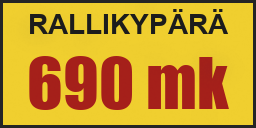
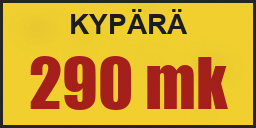
Epicerie : casques du jeu en vente (JD 23/10 : « les casques du jeu qui spawn dans la chambre ») -- copies du casque du jeu (Wear, comme les paires par joueur : portables, vues par les autres, protection du jeu), creees chez l'hote ou en solo (@vetostoa / @vetosto), gardees dans MWCoop-kyparat.txt ;

diff --git a/src/MWCoop/Sync/Wear.cs b/src/MWCoop/Sync/Wear.cs
@@ -49,6 +49,7 @@ namespace MWCoop
             public int OffWho = -1; public Vector3 OffPos; public Quaternion OffRot; public float OffAt = -1;  // pose ou un autre l'a enleve
             public int LastWearer = -1;                                           // dernier porteur vu
             public float YieldAt = -100, HeldLog = -100, SentAt;
+            public Vector3 FreePos, FreeEul;                                      // (casque achete : derniere pose libre, sauvegardee)
         }
 
         // 0 veste, 1 combinaison, 2 casque, 3 tasse, puis par joueur k >= 2 : veste k, combinaison k, casque k, tasse k.
@@ -76,6 +77,7 @@ namespace MWCoop
             Reset();
             clothLogic = helmetLogic = null;
             helmetHooked.Clear(); cupSeen.Clear(); cupResend = 0f;
+            osto.Clear(); ostoFile.Clear(); ostoRead = false;
             player = null;
             found = fileRead = false;
             filePoses.Clear();
@@ -134,7 +136,7 @@ namespace MWCoop
         static readonly HashSet<GameObject> helmetHooked = new HashSet<GameObject>();
         static void HookHelmets()
         {
-            foreach (Item it in items)
+            foreach (Item it in AllItems())
             {
                 if (it.Kind != 2 || it.Go == null || helmetHooked.Contains(it.Go)) continue;
                 PlayMakerFSM use = Game.FsmOn(it.Go, "Use");
@@ -180,7 +182,7 @@ namespace MWCoop
 
         public static string KeyOf(GameObject go)
         {
-            foreach (Item it in items) if (it.Go != null && it.Go == go) return it.Key;
+            foreach (Item it in AllItems()) if (it.Go != null && it.Go == go) return it.Key;
             return null;
         }
 
@@ -193,7 +195,7 @@ namespace MWCoop
             get
             {
                 int f = 0;
-                foreach (Item it in items) if (it.LocalWorn) f |= Bits[it.Kind];
+                foreach (Item it in AllItems()) if (it.LocalWorn) f |= Bits[it.Kind];
                 return f;
             }
         }
@@ -235,8 +237,16 @@ namespace MWCoop
                 return none;
             }
             if (src == null) return null;
+            var it = NewCopy(kind, k, src, CopyNames[kind] + " " + k + "(itemx)", Kinds[kind] + " " + k, "w:vetement:" + Kinds[kind] + k, pos, rot);
+            items.Add(it);
+            return it;
+        }
+
+        // copie d'un vetement du jeu (« (itemx) » dans le nom : la main du jeu le prend comme un objet), pas encore listee
+        static Item NewCopy(int kind, int k, GameObject src, string goName, string name, string key, Vector3 pos, Quaternion rot)
+        {
             var go = (GameObject)Object.Instantiate(src, pos, rot);
-            go.name = CopyNames[kind] + " " + k + "(itemx)";   // (« (itemx) » : la main du jeu le prend comme un objet)
+            go.name = goName;
             go.transform.parent = null;
             go.transform.position = pos; go.transform.rotation = rot;
             go.transform.localScale = Vector3.one;   // (comme le chargement du jeu : SetScale 1)
@@ -270,10 +280,114 @@ namespace MWCoop
                 FsmInt st = use.FsmVariables.FindFsmInt("State"); if (st != null) st.Value = 0;
                 FsmBool ld = use.FsmVariables.FindFsmBool("Loaded"); if (ld != null) ld.Value = true;
             }
-            var it = new Item { Go = go, Kind = kind, Name = Kinds[kind] + " " + k, Key = "w:vetement:" + Kinds[kind] + k };
-            items.Add(it);
+            var nit = new Item { Go = go, Kind = kind, Name = name, Key = key, FreePos = pos, FreeEul = rot.eulerAngles };
             Props.SoonScan();
+            return nit;
+        }
+
+        // ---------------------------------------------------------------- casques achetes (epicerie, JD 23/10)
+        // Copies du casque du jeu vendues a l'Osuuskauppa, en plus des paires (une par joueur) : creees chez l'hote (ou en
+        // solo), liste et poses envoyees a tous (@vetosto, redite avec celle des paires), gardees a cote de la sauvegarde de
+        // l'hote (MWCoop-kyparat.txt). Messages de port : numero 128 + j (hors des paires, dont l'ordre peut differer).
+        const int OstoBase = 128;
+        static readonly List<Item> osto = new List<Item>();
+        static readonly List<Vector3[]> ostoFile = new List<Vector3[]>();
+        static bool ostoRead;
+        static bool Authority { get { return !Session.Active || Session.IsHost; } }
+        static string OstoPath { get { return WorldFiles.PathOf("MWCoop-kyparat.txt"); } }
+
+        static IEnumerable<Item> AllItems()
+        {
+            foreach (Item it in items) yield return it;
+            foreach (Item it in osto) yield return it;
+        }
+
+        public static void BuyHelmet(Vector3 pos, Quaternion rot)
+        {
+            if (Authority) { AddOsto(pos, rot, true, Session.Active ? Session.LocalId : 0); return; }
+            Session.SendAll(new NetWriter(Msg.Job).U8(Session.LocalId).Str("@vetostoa").Vec(pos).Quat(rot), true);
+            Log.Info("vetements : casque achete, demande envoyee a l'hote");
+        }
+
+        public static void OnBuyRequest(int who, Vector3 pos, Quaternion rot) { if (Session.IsHost) AddOsto(pos, rot, true, who); }
+
+        // essai (boutique, action « kyparapaalle ») : le dernier casque achete mis par son automate Use, comme un clic
+        public static string TestOsto()
+        {
+            if (osto.Count == 0) return "aucun casque achete";
+            Item it = osto[osto.Count - 1];
+            PlayMakerFSM use = it.Go != null ? Game.FsmOn(it.Go, "Use") : null;
+            if (use == null) return it.Name + " : pas d'automate Use";
+            Game.SetState(use, "State 1");
+            return it.Name + " : mis par son automate (" + use.ActiveStateName + ")";
+        }
+        public static string OstoState() { return osto.Count + " casque(s) achete(s)" + (osto.Count > 0 ? ", dernier : " + State2(osto[osto.Count - 1]) : ""); }
+        static string State2(Item it) { return it.Name + (it.Go == null ? " absent" : (it.Go.activeSelf ? " visible en " + it.Go.transform.position.ToString("F2") : " inactif") + ", porte ici " + it.LocalWorn + ", PlayerHelmet " + Game.GlobalBool("PlayerHelmet")); }
+
+        static Item AddOsto(Vector3 pos, Quaternion rot, bool bought, int who)
+        {
+            GameObject src = items[2].Go;
+            if (src == null) { Log.Info("vetements : casque du jeu introuvable, casque achete pas cree"); return null; }
+            int j = osto.Count + 1;
+            Item it = NewCopy(2, j, src, "helmet osto " + j + "(itemx)", "casque achete " + j, "w:vetement:casqueosto" + j, pos, rot);
+            osto.Add(it);
+            HookHelmets();
+            if (bought)
+            {
+                Log.Info("vetements : casque achete " + j + " par #" + who + ", pose en " + pos.ToString("F1"));
+                SaveOsto(); SendOsto();
+            }
             return it;
+        }
+
+        static void LoadOsto()
+        {
+            ostoRead = true;
+            var ci = System.Globalization.CultureInfo.InvariantCulture;
+            try
+            {
+                if (File.Exists(OstoPath))
+                    foreach (string l in File.ReadAllLines(OstoPath))
+                    {
+                        string[] c = l.Split(';');
+                        if (c.Length < 6) continue;
+                        Vector3 p = new Vector3(float.Parse(c[0], ci), float.Parse(c[1], ci), float.Parse(c[2], ci)), e = new Vector3(float.Parse(c[3], ci), float.Parse(c[4], ci), float.Parse(c[5], ci));
+                        AddOsto(p, Quaternion.Euler(e), false, 0);
+                    }
+            }
+            catch (System.Exception ex) { Log.Warn("vetements : lecture des casques achetes " + ex.Message); }
+            if (osto.Count > 0) Log.Info("vetements : " + osto.Count + " casque(s) achete(s) repris de la sauvegarde");
+        }
+
+        static void SaveOsto()
+        {
+            if (!Authority || !ostoRead) return;
+            var ci = System.Globalization.CultureInfo.InvariantCulture;
+            var sb = new System.Text.StringBuilder();
+            foreach (Item it in osto)
+            {
+                foreach (float f in new[] { it.FreePos.x, it.FreePos.y, it.FreePos.z, it.FreeEul.x, it.FreeEul.y, it.FreeEul.z }) sb.Append(f.ToString("R", ci)).Append(';');
+                sb.Length--; sb.Append('\n');
+            }
+            try { File.WriteAllText(OstoPath, sb.ToString()); } catch (System.Exception ex) { Log.Warn("vetements : ecriture des casques achetes " + ex.Message); }
+        }
+
+        static void SendOsto()
+        {
+            if (!Session.Active || !Session.IsHost || osto.Count == 0 || Session.RemoteCount == 0) return;
+            var w = new NetWriter(Msg.Job).U8(Session.LocalId).Str("@vetosto").U8(osto.Count);
+            foreach (Item it in osto) w.Vec(it.FreePos).Vec(it.FreeEul);
+            Session.SendAll(w, true);
+        }
+
+        // Invite : liste de l'hote -- les casques achetes qui manquent ici, a la pose de l'hote.
+        public static void OnOstoList(NetReader r)
+        {
+            int n = r.U8();
+            var ps = new List<Vector3[]>();
+            for (int j = 0; j < n; j++) ps.Add(new[] { r.Vec(), r.Vec() });
+            if (Session.IsHost || items[2].Go == null) return;
+            for (int j = osto.Count; j < n; j++) AddOsto(ps[j][0], Quaternion.Euler(ps[j][1]), false, 0);
         }
 
         // Paires jusqu'a n (poses : veste, rotation, combinaison, rotation par paire k >= 2, sinon point de la maison).
@@ -331,7 +445,7 @@ namespace MWCoop
         }
 
         // A la sauvegarde du jeu (SaveHook), comme les autres objets des ajouts : poses des tenues de plus.
-        public static void OnGameSave() { if (Session.Active && fileRead) SaveFile(); }
+        public static void OnGameSave() { if (Session.Active && fileRead) SaveFile(); SaveOsto(); }
 
         static void SaveFile()
         {
@@ -471,29 +585,38 @@ namespace MWCoop
                 if (want > pairs && EnsurePairs(want, filePoses, filePoses.Count + 1 >= want ? "reprises de la sauvegarde" : "une par joueur")) { SaveFile(); nextList = 0f; }
                 if (now >= nextList) { nextList = now + 10f; SendList(); }
             }
+            if (Authority && !ostoRead && items[2].Go != null && now - loadedAt > 12f) { LoadOsto(); SendOsto(); }
+            if (Session.Active && Session.IsHost && ostoRead && now >= nextOsto) { nextOsto = now + 10f; SendOsto(); }
             if (swapKind >= 0 && now >= swapAt) Swap(now);
-            for (int i = 0; i < items.Count; i++)
+            for (int i = 0; i < items.Count; i++) Tick(items[i], i, now);
+            for (int j = 0; j < osto.Count; j++) Tick(osto[j], OstoBase + j, now);
+        }
+        static float nextOsto;
+
+        static void Tick(Item it, int i, float now)
+        {
             {
-                Item it = items[i];
                 GameObject go = it.Go;
-                if (go == null) continue;
+                if (go == null) return;
                 Transform t = go.transform;
                 // Sous PLAYER (pas sa racine : au volant ou passager, la racine est la voiture).
                 bool worn = !go.activeSelf && player != null && t.IsChildOf(player);
                 if (worn != it.LocalWorn)
                 {
                     it.LocalWorn = worn;
-                    if (worn) it.Hidden = false;   // (cache ici, puis mis par ce joueur-ci : impossible, mais propre)
+                    if (worn) it.Hidden = false;
+                    if (!worn && i >= OstoBase) { it.FreePos = t.position; it.FreeEul = t.rotation.eulerAngles; }   // (cache ici, puis mis par ce joueur-ci : impossible, mais propre)
                     if (Session.Active) { SendWear(i, worn, t); it.SentAt = now; }
                     Log.Info("vetements : " + it.Name + (worn ? " mis(e)" : " enleve(e) en " + t.position.ToString("F1")));
                 }
                 else if (worn && Session.Active && now - it.SentAt > 5f) { SendWear(i, true, t); it.SentAt = now; }   // (redit : arrivee, message perdu)
-                if (!Session.Active) continue;
+                if (i >= OstoBase && !worn && !it.Hidden && go.activeInHierarchy && (player == null || !t.IsChildOf(player))) { it.FreePos = t.position; it.FreeEul = t.rotation.eulerAngles; }
+                if (!Session.Active) return;
                 int wearer = RemoteWearer(it, now);
                 if (worn)
                 {
                     if (wearer >= 0 && wearer < Session.LocalId) Yield(it, wearer, now);
-                    continue;
+                    return;
                 }
                 if (wearer >= 0)
                 {
@@ -597,8 +720,8 @@ namespace MWCoop
             Vector3 pos = r.Vec();
             Quaternion rot = r.Quat();
             if (Session.IsHost) Session.Broadcast(new NetWriter(Msg.Wear).U8(who).U8(i).Bool(worn).Vec(pos).Quat(rot), true, who);
-            if (i < 0 || i >= items.Count) return;   // (copie pas encore la : redit dans 5 s)
-            Item it = items[i];
+            Item it = i >= OstoBase ? (i - OstoBase < osto.Count ? osto[i - OstoBase] : null) : (i < items.Count ? items[i] : null);
+            if (it == null) return;   // (copie pas encore la : redit dans 5 s)
             float now = Time.realtimeSinceStartup;
             bool was = it.WornBy == who;
             if (worn) { it.WornBy = who; it.WornAt = now; }

diff --git a/src/MWCoop/Sync/KauppaEpicerie.cs b/src/MWCoop/Sync/KauppaEpicerie.cs
@@ -15,7 +15,7 @@ namespace MWCoop
     public static partial class Kauppa
     {
         public const string KOlut = "olut", KViina = "viina", KKypara = "kypara";
-        const int OlutPrice = 14, ViinaPrice = 89, KyparaPrice = 690;
+        const int OlutPrice = 14, ViinaPrice = 89, KyparaPrice = 290;
         const float XIn = 2.05f, ZIn = 2.4f;   // (faces interieures des murs)
 
         // ---------------------------------------------------------------- meubles
@@ -365,8 +365,13 @@ namespace MWCoop
             foreach (GameObject g in gps.Shown) { Transform sc = g.transform.Find("naytto"); if (sc != null) sc.GetComponent<Renderer>().sharedMaterial = splash; }
             OfferCol(gps, new Vector3(x, rallyTops[2] + 0.1f, zc), new Vector3(0.38f, 0.22f, 1.0f));
             Plane("hlkartturi", new Vector3(tagX, rallyTops[2] - 0.035f, zc), 0.12f, 0.06f, Vector3.left);
-            var kyp = new Offer { Item = KKypara, Price = KyparaPrice, Fr = "CASQUE DE RALLYE", En = "RALLY HELMET" };
-            foreach (float z in new[] { -1.85f, -1.25f }) Display(kyp, KKypara, new Vector3(x, rallyTops[3], z), 90f);
+            // casques : copies du casque du jeu (JD 23/10 : « les casques du jeu qui spawn dans la chambre »), portables comme lui
+            var kyp = new Offer { Item = KKypara, Price = KyparaPrice, Fr = "CASQUE", En = "HELMET" };
+            foreach (float z in new[] { -1.85f, -1.25f })
+            {
+                GameObject h = Clone("EQUIPMENTS/Helmet/helmet(itemx)", 0, new Vector3(x, rallyTops[3], z), 90f, new Vector3(0, -1, 0), false, false);
+                if (h != null) kyp.Shown.Add(h); else Display(kyp, KKypara, new Vector3(x, rallyTops[3], z), 90f);
+            }
             OfferCol(kyp, new Vector3(x, rallyTops[3] + 0.15f, zc), new Vector3(0.38f, 0.3f, 1.0f));
             Plane("hlkypara", new Vector3(tagX, rallyTops[3] - 0.035f, zc), 0.12f, 0.06f, Vector3.left);
             L("rallye : KARTTURI " + KartturiPrice + ", casque " + KyparaPrice + " mk");

diff --git a/src/MWCoop/Sync/Kauppa.cs b/src/MWCoop/Sync/Kauppa.cs
@@ -617,6 +617,8 @@ namespace MWCoop
                             shotName = a[8]; shotAt = now + (a.Length > 9 ? F(a[9]) : 3f);
                             break;
                         }
+                        case "kyparapaalle": L("essai : " + Wear.TestOsto()); break;
+                        case "kypara": L("essai : " + Wear.OstoState()); break;
                         case "vitriini": { Vitriini v = vitriinit.Find(x => x.Name == a[2]); if (v != null) { v.OpenHalf = int.Parse(a[3]); L("essai : vitrine " + a[2] + " moitie " + a[3]); } break; }
                         case "fin": if (testCam != null) { UnityEngine.Object.Destroy(testCam.gameObject); testCam = null; } break;
                         default: KinoEssai(a, now); break;   // (actions du cinema : KinoRakennus.cs)

diff --git a/src/MWCoop/Sync/Jobs.cs b/src/MWCoop/Sync/Jobs.cs
@@ -2059,6 +2059,8 @@ namespace MWCoop
                 case "@filmi": Kauppa.OnFilmPart(who, r); break;
                 case "@filmi?": Kauppa.OnFilmAsk(who, r); break;
                 case "@vet": Wear.OnList(r); break;
+                case "@vetosto": Wear.OnOstoList(r); break;   // (casques achetes a l'Osuuskauppa)
+                case "@vetostoa": { Vector3 kp = r.Vec(); Wear.OnBuyRequest(who, kp, r.Quat()); break; }
                 case "@drone": { int dn = r.U8(); Vector3 dp = r.Vec(); DroneCam.OnRemote(who, dn, dp, r.Quat()); break; }
                 case "@flash": DroneCam.OnFlash(who, r.Vec()); break;
                 case "@fendattel": { int fa = r.U8(); Vector3 fp = r.Vec(); CutterHitch.OnRemote(who, fa, fp, r.Quat()); break; }

diff --git a/src/MWCoop/Sync/KauppaOsto.cs b/src/MWCoop/Sync/KauppaOsto.cs
@@ -265,6 +265,7 @@ namespace MWCoop
         static void SpawnKind(string kind, Vector3 p, Quaternion q)
         {
             if (kind == "makuupussi") SleepingBags.Purchase(p, q);
+            else if (kind == KKypara) Wear.BuyHelmet(p, q);   // (copie du casque du jeu, portable : Wear)
             else SpawnItem(kind, kind == KVhs || kind == KKela ? "tyhja" : "", p, q);
         }
 
